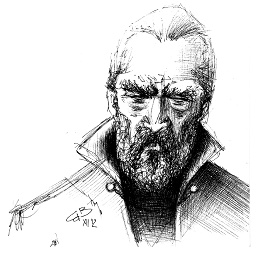
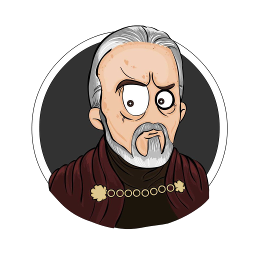
Move from RTD theme to Alabaster one
Also, the following changes were made:

* Change Dooku logotype.
* Change navigation titles.

diff --git a/docs/conf.py b/docs/conf.py
@@ -21,7 +21,7 @@ release = dooku_version
 version = re.sub('[^0-9.]', '', release)
 
 # sphinx settings
-extensions = ['sphinx.ext.autodoc']
+extensions = ['sphinx.ext.autodoc', 'alabaster']
 templates_path = ['_templates']
 source_suffix = '.rst'
 master_doc = 'index'
@@ -29,11 +29,26 @@ exclude_patterns = ['_build']
 pygments_style = 'sphinx'
 
 # html output settings
-html_theme = 'default'
-html_static_path = ['_static']
+import alabaster
 
-# use read-the-docs theme for local builds
-if os.environ.get('READTHEDOCS', None) != 'True':
-    import sphinx_rtd_theme
-    html_theme = 'sphinx_rtd_theme'
-    html_theme_path = [sphinx_rtd_theme.get_html_theme_path()]
+html_theme = 'alabaster'
+html_theme_path = [alabaster.get_path()]
+html_theme_options = {
+    'logo': 'dooku.png',
+    'description': 'a set of libraries for everyday!',
+    'gratipay_user': 'ikalnitsky',
+    'github_user': 'ikalnitsky',
+    'github_repo': 'dooku',
+    'github_button': True,
+    'github_banner': True,
+    'travis_button': True,
+    'extra_nav_links': {
+        'Issue Tracker': 'https://github.com/ikalnitsky/dooku/issues',
+    },
+}
+html_sidebars = {
+    '**': [
+        'about.html', 'navigation.html', 'searchbox.html', 'donate.html',
+    ]
+}
+html_static_path = ['_static']

diff --git a/docs/index.rst b/docs/index.rst
@@ -3,11 +3,6 @@
 Welcome To Dooku
 ================
 
-.. image:: _static/dooku.png
-   :alt: Dooku: a set of libraries for everyday
-   :align: center
-   :width: 200px
-
 Dooku is a set of libraries for the Python programming language that provides
 various useful stuff that you might need in everyday usage. The idea is
 to provide a set of libraries and useful functions, just like Boost does
@@ -20,6 +15,10 @@ of Dooku.
 
 The library is self-contained and there are no dependencies it requires.
 Just install it with ``pip`` and enjoy!
+
+.. code:: bash
+
+    $ [sudo] pip install dooku
 
 
 Kind of User's Guide
@@ -34,16 +33,5 @@ Kind of User's Guide
    decorator
    ext
 
-
-FYI
----
-
-.. toctree::
-   :maxdepth: 2
-
    changelog
    license
-
-* `Sources on GitHub <https://github.com/ikalnitsky/dooku>`_
-* `Report a bug <https://github.com/ikalnitsky/dooku/issues>`_
-* `Support me via GitTip <https://www.gittip.com/ikalnitsky/>`_

diff --git a/docs/license.rst b/docs/license.rst
@@ -6,6 +6,19 @@ License
 Dooku is licensed under a three clause BSD License. It basically means:
 do whatever you want with it as long as the copyright are present.
 
-Here's the full text of license:
 
-.. literalinclude:: ../LICENSE
+Dooku
+-----
+
+.. include:: ../LICENSE
+
+
+Logo
+----
+
+:copyright:
+    Copyright (c) 2010, Marijn Rooijakkers
+
+:license:
+    `Creative Commons Attribution-Noncommercial-No Derivative Works 3.0
+    License <http://creativecommons.org/licenses/by-nc-nd/3.0/>`_

diff --git a/docs/datetime.rst b/docs/datetime.rst
@@ -1,7 +1,7 @@
 .. _datetime:
 
-dooku.datetime
-==============
+Datetime Helpers
+================
 
 Dooku provides some missed primitives for datetime manipulating. This part
 was born during Holocron_ development where we were needed to do next things:

diff --git a/docs/decorator.rst b/docs/decorator.rst
@@ -1,7 +1,7 @@
 .. _decorator:
 
-dooku.decorator
-===============
+Decorators
+==========
 
 Decorator is a part of Dooku that contains various useful decorators that
 could be helpful in daily usage basis. The module is very small now, so

diff --git a/docs/ext.rst b/docs/ext.rst
@@ -1,7 +1,7 @@
 .. _ext:
 
-dooku.ext
-=========
+Extension Manager
+=================
 
 One of the most popular and missed Python's features is a feature to work
 with extensions (plugins) and Dooku, as usual, provides this feature.

diff --git a/docs/algorithm.rst b/docs/algorithm.rst
@@ -1,7 +1,7 @@
 .. _algorithm:
 
-dooku.algorithm
-===============
+Algorithms
+==========
 
 This part of Dooku contains various algorithms that are missed in Python's
 standard library and here they are:

diff --git a/docs/conf.rst b/docs/conf.rst
@@ -1,7 +1,7 @@
 .. _conf:
 
-dooku.conf
-==========
+Config Manager
+==============
 
 The module provides convenient stuff to interact with dictionary instances
 that keep some configuration data.
